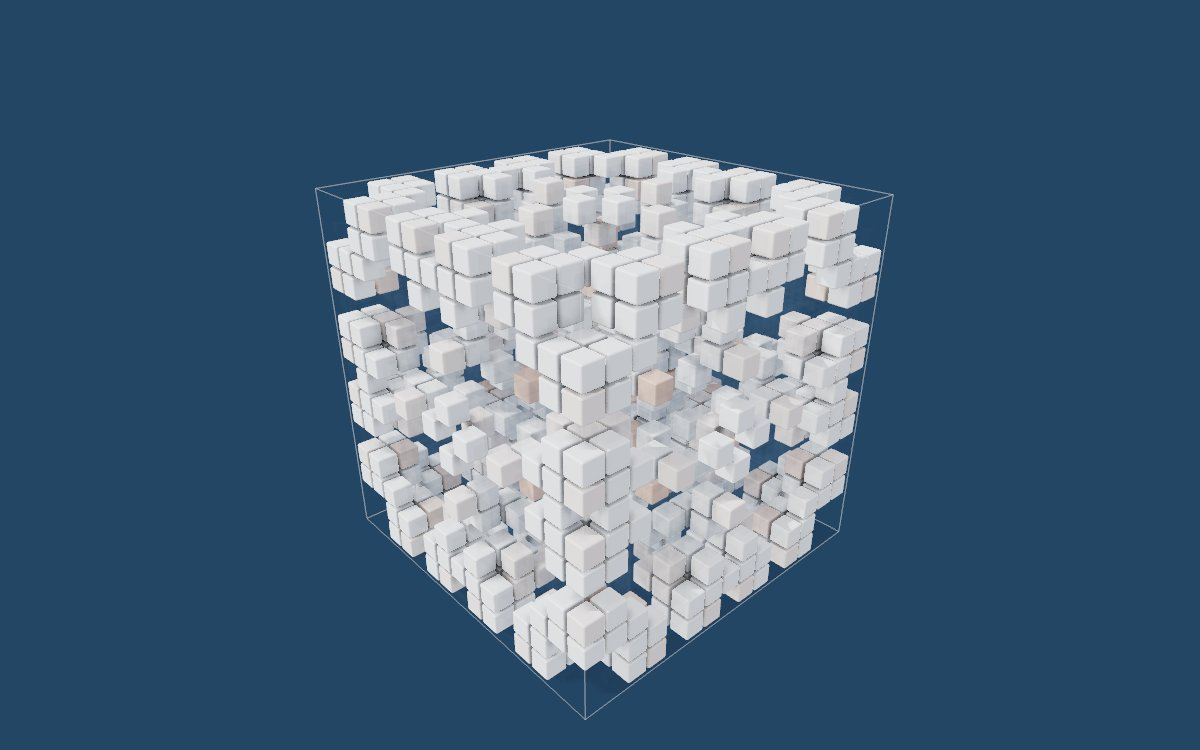
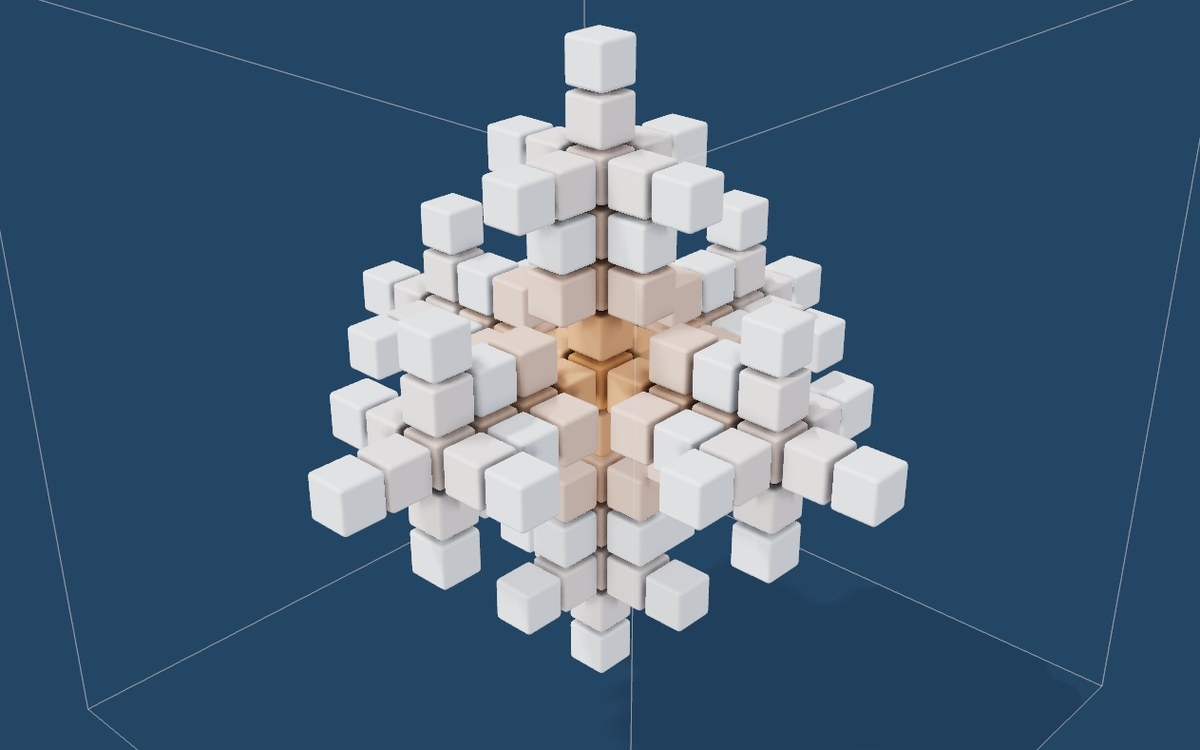
feat(home): research internships in Experience, Projects section with new images

diff --git a/index.html b/index.html
@@ -58,7 +58,7 @@
         <a href="#research">Research</a>
         <a href="#about">Education</a>
         <a href="#systems">Experience</a>
-        <a href="#apps">Apps</a>
+        <a href="#apps">Projects</a>
       </nav>
     </header>
 
@@ -254,7 +254,7 @@
       </section>
 
       <section id="systems" class="section" aria-labelledby="systems-heading">
-        <div class="section-heading"><h2 id="systems-heading">Experience &amp; projects</h2></div>
+        <div class="section-heading"><h2 id="systems-heading">Experience</h2></div>
         <article class="cv-entry" aria-labelledby="amazon-heading">
           <div class="entry-content">
             <header class="entry-heading">
@@ -273,32 +273,31 @@
           <div class="entry-content">
             <header class="entry-heading">
               <div class="entry-title">
-                <h3><a href="https://github.com/hematteo/vigil">vigil-gpu</a></h3>
+                <h3>University of St Andrews</h3>
               </div>
-              <p class="entry-date">2026</p>
+              <p class="entry-date">January–May 2023</p>
             </header>
-            <p class="paper-meta">Open source · Python</p>
-            <div class="entry-description"><p>I built a terminal monitor for rented cloud GPUs. It tracks training logs and metrics across instances, with reconnecting SSH streams and alerts for stalled runs, NaNs, and loss plateaus.</p></div>
-            <div class="artifact-links"><a href="https://github.com/hematteo/vigil">Code</a><a href="https://pypi.org/project/vigil-gpu/">PyPI</a><a href="https://github.com/hematteo/vigil/blob/main/docs/demo.gif">Recorded demo</a><a href="https://github.com/hematteo/vigil#readme">Documentation</a></div>
+            <p class="paper-meta">Research Intern · STARIS</p>
+            <div class="entry-description"><p>I automated data collection for research on energy-aware algorithm selection, gathering hundreds of hours of solver measurements, then analysed the data and identified the features that most improved prediction accuracy.</p></div>
           </div>
         </article>
         <article class="cv-entry">
           <div class="entry-content">
             <header class="entry-heading">
               <div class="entry-title">
-                <h3>LLMs in the browser</h3>
+                <h3>University of St Andrews</h3>
               </div>
-              <p class="entry-date">2024–2025</p>
+              <p class="entry-date">January–May 2022</p>
             </header>
-            <p class="paper-meta">Independent project · Archived</p>
-            <div class="entry-description"><p>A platform for learning Japanese that I built and ran, with about 3,000 monthly active users. Models ran on users’ own devices through WebGPU/WebLLM, so there were no server inference costs.</p></div>
-            <details class="system-details"><summary>Engineering scope</summary><p>I built and maintained all of it: inference, frontend and backend, authentication, subscriptions, deployment and monitoring.</p></details>
+            <p class="paper-meta">Research Intern · Vertically Integrated Projects</p>
+            <div class="entry-description"><p>I built ML classifiers to detect dolphins in acoustic recordings, combining signal processing with neural networks, and refactored the project’s Python research codebase so it ran across platforms.</p></div>
+            <div class="artifact-links"><a href="https://github.com/orgs/dolphin-acoustics-vip/repositories">Code</a></div>
           </div>
         </article>
       </section>
 
       <section id="apps" class="section" aria-labelledby="apps-heading">
-        <div class="section-heading"><h2 id="apps-heading">Apps</h2></div>
+        <div class="section-heading"><h2 id="apps-heading">Projects</h2></div>
         <article class="cv-entry" id="game-of-life-3d">
           <div class="entry-content">
             <header class="entry-heading">
@@ -313,7 +312,7 @@
               </div>
               <figure class="paper-figure results-figure research-preview">
                 <a href="https://3dgameoflife.com/" aria-label="Open 3D Game of Life">
-                  <img src="/apps/game-of-life-3d.jpg" alt="A cube of white voxels, grown by 3D Game of Life rules, inside a wireframe box on a deep blue background." width="1200" height="750" loading="lazy">
+                  <img src="/apps/game-of-life-3d.jpg" alt="A symmetric, snowflake-like structure of white voxels with an orange core, grown by 3D Game of Life rules, on a deep blue background." width="1200" height="750" loading="lazy">
                 </a>
                 <figcaption>Drag to orbit, scroll to zoom, space to run.</figcaption>
               </figure>
@@ -334,11 +333,45 @@
               </div>
               <figure class="paper-figure results-figure research-preview">
                 <a href="https://haopai.app/" aria-label="Open Good Hand">
-                  <img src="/apps/good-hand.jpg" alt="A Dou Dizhu table: the bot landlord has played a straight from ten to ace, marked with the characters 顺子, above the player’s seventeen-card hand." width="1200" height="750" loading="lazy">
+                  <img src="/apps/good-hand.jpg" alt="A Dou Dizhu table: the bot landlord plays both jokers, marked with the characters 王炸 and a burst of stars, above the player’s hand." width="1200" height="750" loading="lazy">
                 </a>
-                <figcaption>The bot landlord leads a straight, 10 to A.</figcaption>
+                <figcaption>The bot landlord plays the rocket: both jokers.</figcaption>
               </figure>
             </div>
+          </div>
+        </article>
+        <article class="cv-entry">
+          <div class="entry-content">
+            <header class="entry-heading">
+              <div class="entry-title">
+                <h3><a href="https://github.com/hematteo/vigil">vigil-gpu</a></h3>
+              </div>
+            </header>
+            <p class="paper-meta">Open source · Python</p>
+            <div class="publication-overview">
+              <div class="paper-body">
+                <p>I built a terminal monitor for rented cloud GPUs. It tracks training logs and metrics across instances, with reconnecting SSH streams and alerts for stalled runs, NaNs, and loss plateaus.</p>
+                <div class="artifact-links"><a href="https://github.com/hematteo/vigil">Code</a><a href="https://pypi.org/project/vigil-gpu/">PyPI</a><a href="https://github.com/hematteo/vigil/blob/main/docs/demo.gif">Recorded demo</a><a href="https://github.com/hematteo/vigil#readme">Documentation</a></div>
+              </div>
+              <figure class="paper-figure results-figure research-preview">
+                <a href="https://github.com/hematteo/vigil/blob/main/docs/demo.gif" aria-label="Watch the vigil-gpu demo">
+                  <img src="/apps/vigil-gpu.jpg" alt="The vigil-gpu terminal dashboard: four rented GPU instances, each with a live loss sparkline and a scrolling training log." width="1200" height="750" loading="lazy">
+                </a>
+                <figcaption>Four rented GPUs, one terminal.</figcaption>
+              </figure>
+            </div>
+          </div>
+        </article>
+        <article class="cv-entry">
+          <div class="entry-content">
+            <header class="entry-heading">
+              <div class="entry-title">
+                <h3>LLMs in the browser</h3>
+              </div>
+            </header>
+            <p class="paper-meta">Independent project · Archived</p>
+            <div class="entry-description"><p>A platform for learning Japanese that I built and ran, with about 3,000 monthly active users. Models ran on users’ own devices through WebGPU/WebLLM, so there were no server inference costs.</p></div>
+            <details class="system-details"><summary>Engineering scope</summary><p>I built and maintained all of it: inference, frontend and backend, authentication, subscriptions, deployment and monitoring.</p></details>
           </div>
         </article>
       </section>
